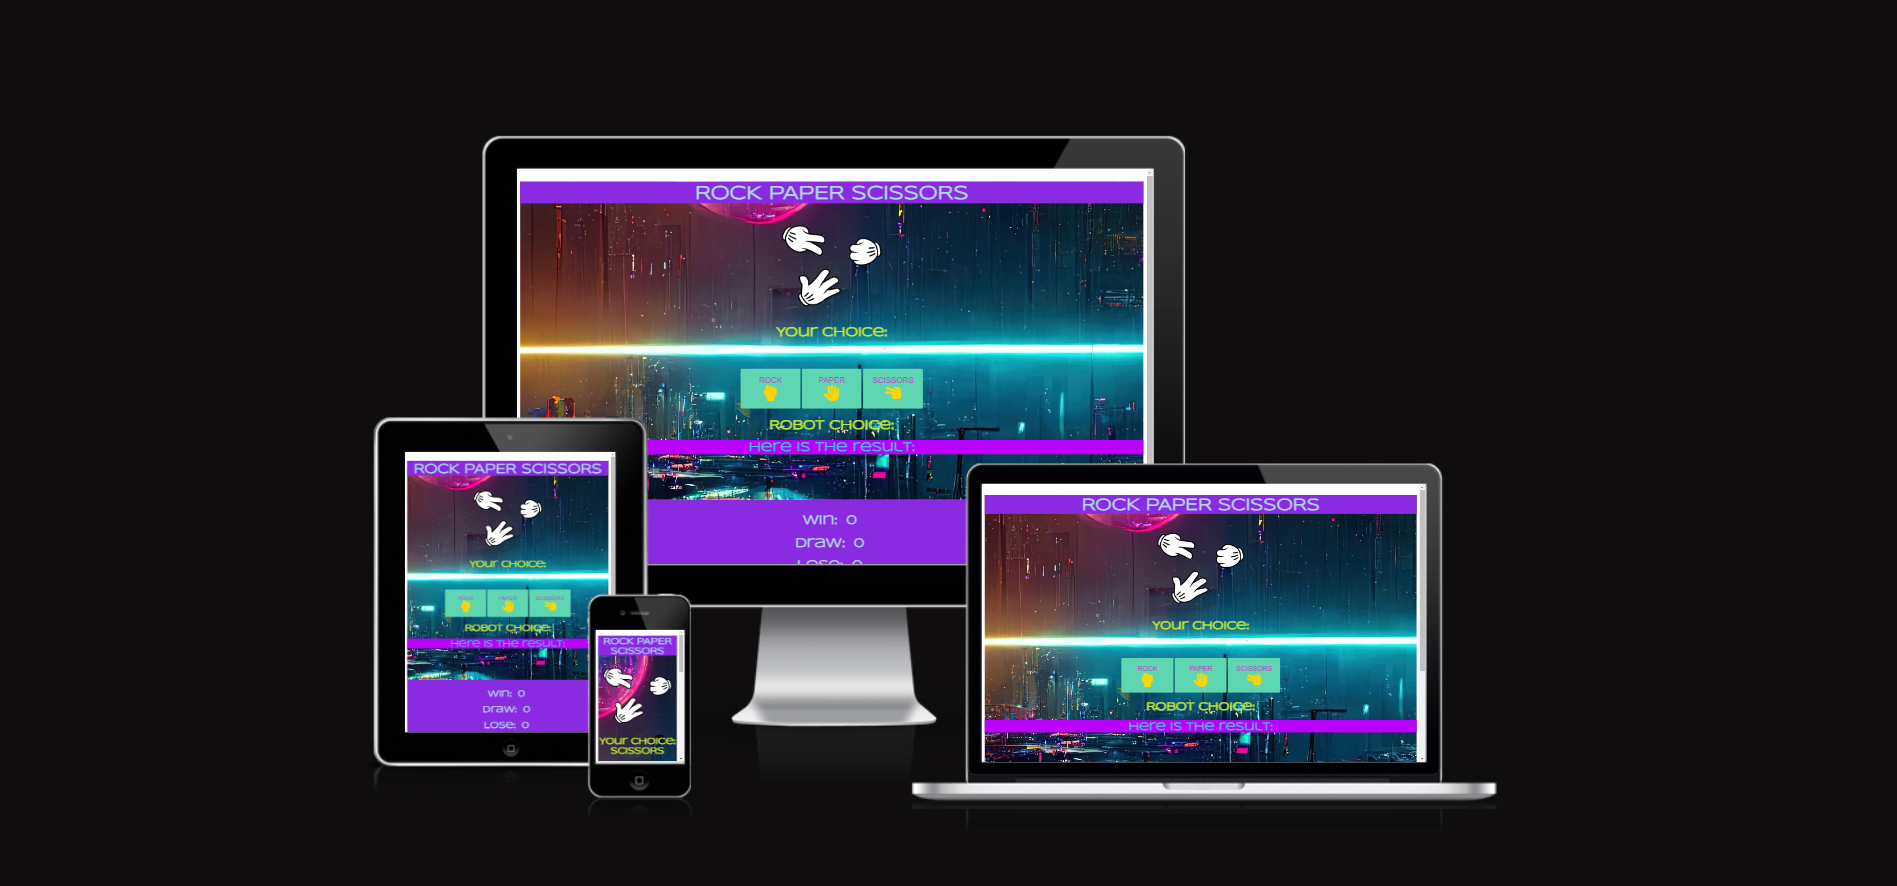
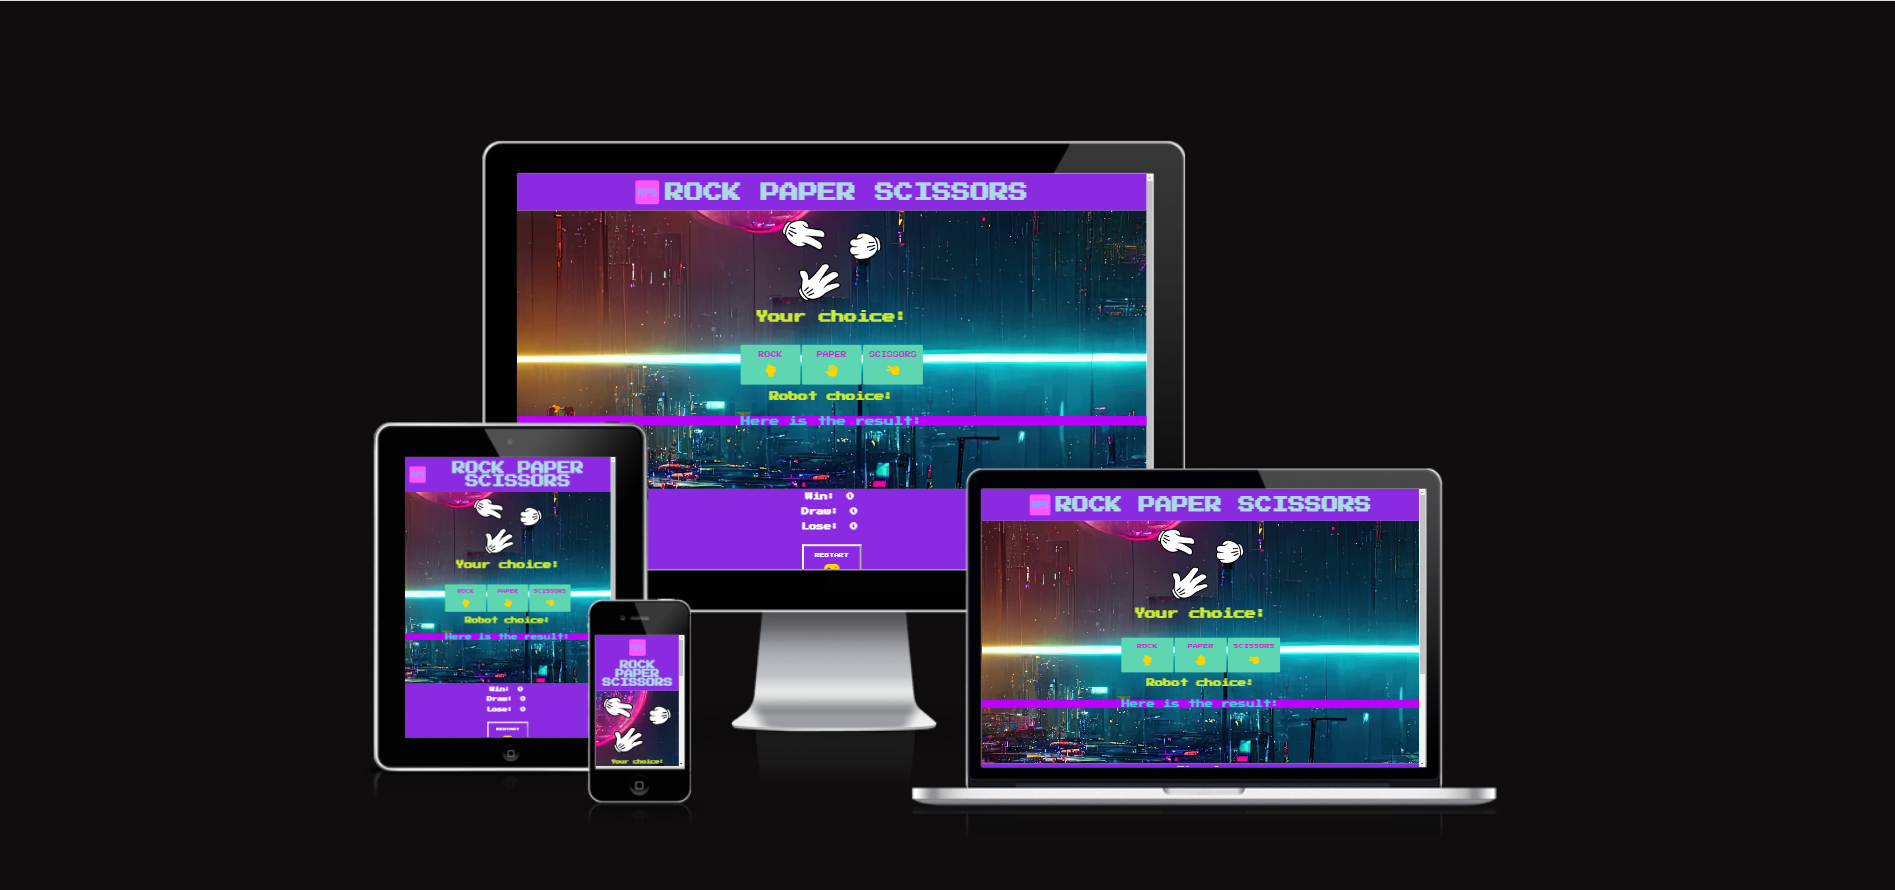
update readme for photo and font

Changed region(s): [[0.1868, 0.1524, 0.8095, 0.9142]]

diff --git a/README.md b/README.md
@@ -102,7 +102,7 @@ The Code to make increment function were taken from <a href = "https://github.co
 <h3>Icons are from font-awesome</h3> 
 <a href="https://fontawesome.com/">https://fontawesome.com/</a>
 
-<h3>The Lato and Syncopate fonts are from Google fonts</h3>
+<h3>The Lato and Press Start 2P fonts are from Google fonts</h3>
 <a href ="https://fonts.googleapis.com/css2?family=Lato:wght@300&family=Press+Start+2P&display=swap">https://fonts.googleapis.com/css2?family=Lato:wght@300&family=Press+Start+2P&display=swap</a>
 
 <h2>Photos reference</h2>
